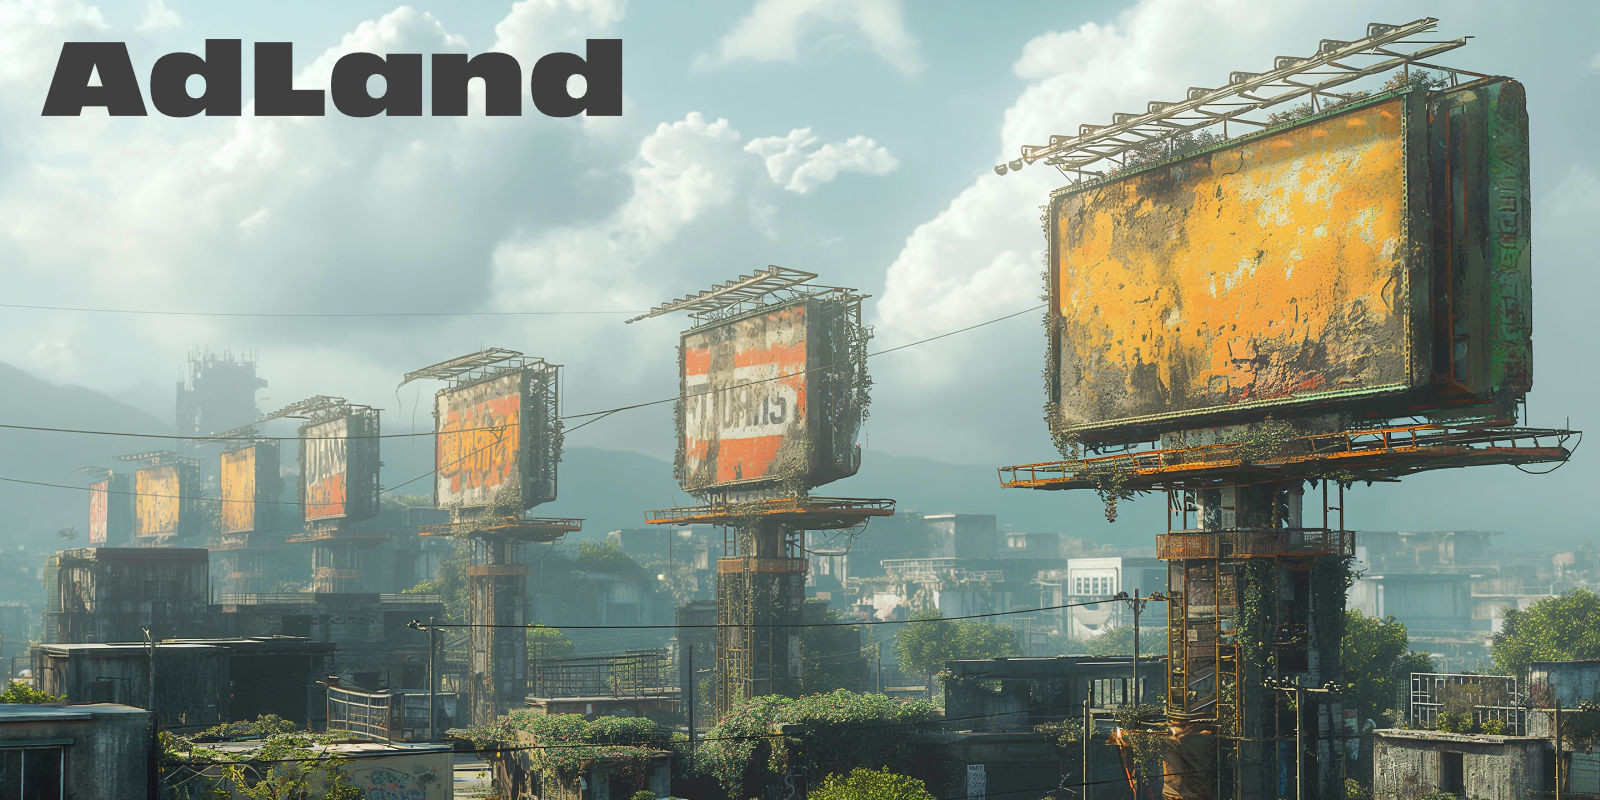
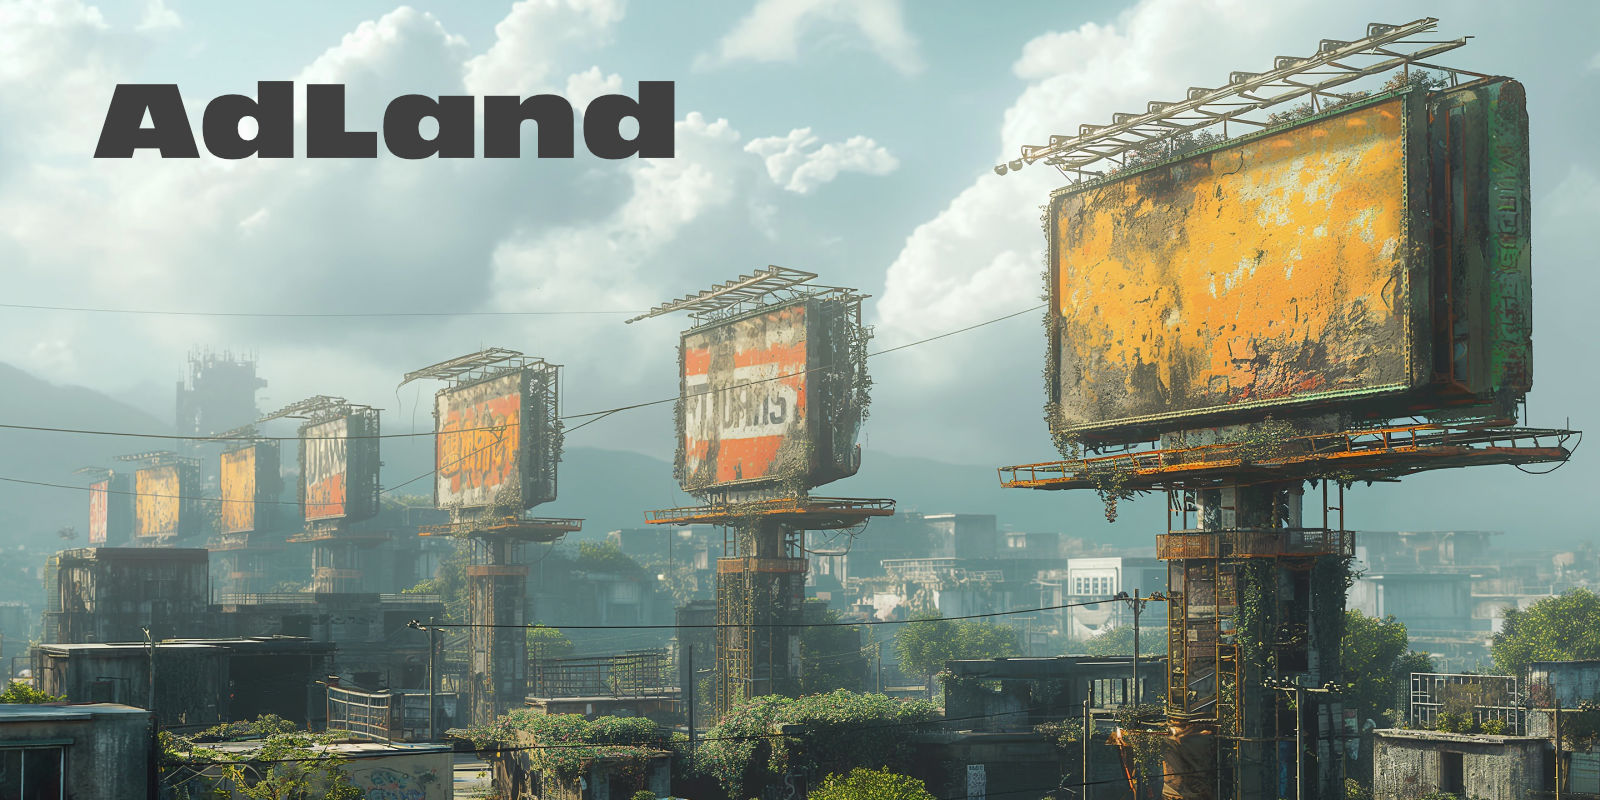
update og image

Changed region(s): [[0.0312, 0.0312, 0.4375, 0.2188]]

diff --git a/apps/web/src/app/layout.tsx b/apps/web/src/app/layout.tsx
@@ -12,7 +12,7 @@ export const metadata: Metadata = {
   },
   openGraph: {
     title: 'AdLand - Revenue for your community',
-    images: ['https://i.imgur.com/Jjz6HxX.jpg'],
+    images: ['https://i.imgur.com/6oeTt1J.jpg'],
   },
   description:
     'AdLand is a protocol to generate revenue for your community through collective advertising ownershup.',

diff --git a/apps/docs/vocs.config.ts b/apps/docs/vocs.config.ts
@@ -6,7 +6,7 @@ export default defineConfig({
     google: "Montserrat",
   },
   logoUrl: "https://i.imgur.com/LYRIycZ.png",
-  ogImageUrl: "https://i.imgur.com/hqIW3kL.jpg",
+  ogImageUrl: "https://i.imgur.com/6oeTt1J.jpg",
   theme: {
     accentColor: {
       backgroundAccent: { light: "#00429d", dark: "#77ae74" },
